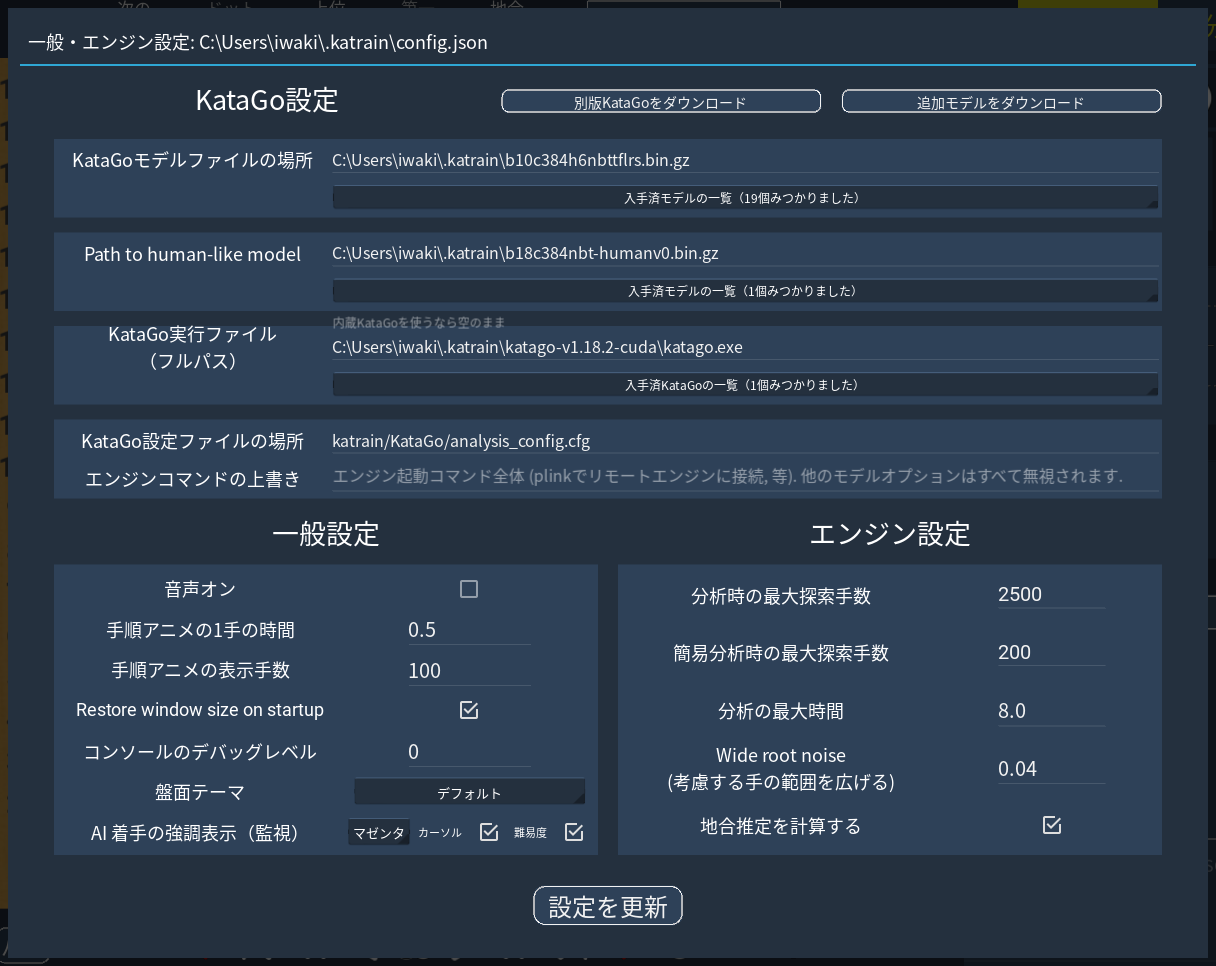
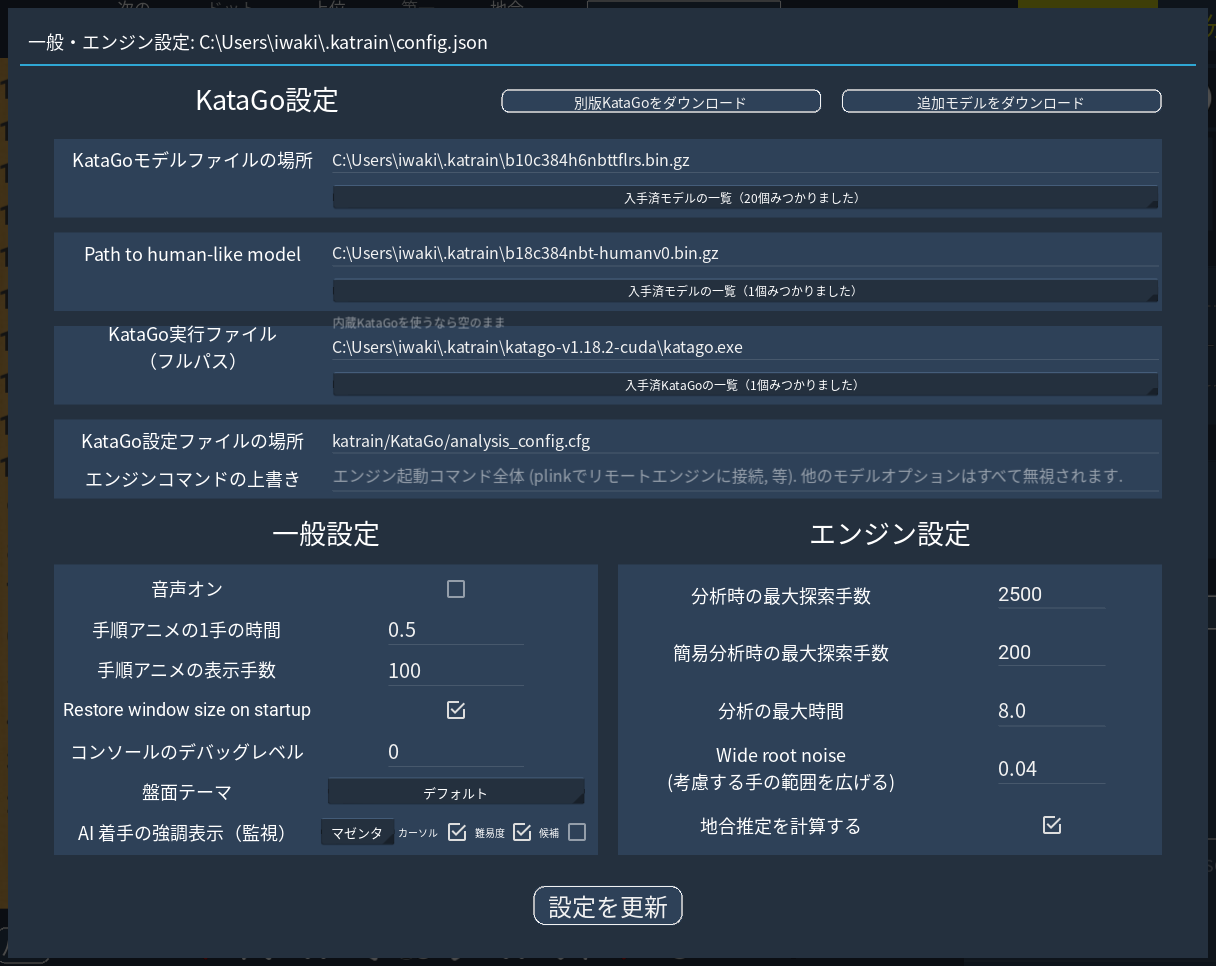
docs(board-watch): 複数候補の表示と差し替えの設計・rules・マニュアルを記録する
- spec 追記15: 字の意味と判定、見え方を決めた経緯（四隅バッジは隣の交点と重なる・輪の色の字は
  輪の線に沈む）、差し替えの判定と既知の限界（実機は未確認）
- rules/board-watch.md: ファイル・設定キー・やってはいけないこと
- マニュアル: 「候補」チェックの説明と設定キー 3 つ、設定画面の画像を撮り直し
- 実寸の描画の見本 calibration-data/board-watch/candidate-marks-20261119.png

diff --git a/.claude/rules/board-watch.md b/.claude/rules/board-watch.md
@@ -5,12 +5,14 @@ paths:
   - "katrain/core/screen_marker.py"
   - "katrain/core/screen_cursor.py"
   - "katrain/core/move_difficulty.py"
+  - "katrain/core/move_candidates.py"
   - "katrain/core/board_spectate.py"
   - "katrain/core/screen_ocr.py"
   - "katrain/core/screen_ocr.ps1"
   - "tests/test_board_watch*.py"
   - "tests/test_screen_*.py"
   - "tests/test_move_difficulty.py"
+  - "tests/test_move_candidates.py"
   - "tests/test_ring_difficulty_prefetch.py"
   - "tests/test_board_spectate.py"
   - "tests/test_screen_ocr.py"
@@ -41,3 +43,23 @@ paths:
 - **新規対局ポップアップの前に対局者を戻す** — ポップアップは `_do_new_game` のあとに対局者ウィジェットを読み直すので、観戦前の対局者は `spectate_end_for_new_game` で先に戻しておく
 
 - **実機確認（2026-11-15・野狐の観戦）で直した点**: (1) 帯のボタンは高さとフォントを固定する（`SizedButton` は高さ未指定だと文字が巨大化して上のパネルへはみ出す）。帯は 2 段（文言／ボタン）で、先頭の「盤を拡大」が右パネルを畳む（`spectate_panel_hidden`・畳んでいる間は勝率と目差 `spectate_eval` を帯に出す）。(2) 日本ルールの部屋のコミ表記は「黒6.5目コミ出し」＝`parse_fox_panel` が「N目…出し」を数字で拾う。(3) 黒白 1 手ずつの 2 手は順序が決まるので`estimated` にしない（10 秒の早碁では確定待ちの間に 2 手進むのが普通）。(4) 対局情報の数字欄は`numeric_input_filter` で全角を半角に直す（日本語入力のままだと欄のフォントに無く豆腐になる）。画面の確認は別プロファイルで起動して `Window.screenshot` を撮る（窓の幅は 4 の倍数にする＝そうでないと画像が斜めに歪む）
+
+## 複数候補の表示と差し替え（spec 追記15・2026-11-19）
+
+設定画面の輪の行の「候補」チェック（`board_watch.highlight_candidates`・既定 OFF）で、決定手の太い輪に加えて細い輪＋輪の内側の字を出す。字は 最＝KataGo の最善手／感＝第一感（humanSL 9段の確率最大・悪手でもそのまま）／人＝悪手でない中で 9段の確率最大（第一感の損失が 2 目を超える・KataGo が読んでいない、のときだけ別の点に出る）／全＝最善手と第一感が同じ点／罠＝決定手が罠。同じ点の役割は 1 つの輪にまとめる（1 点に最大 2 字・輪は最大 4 つ）。表示した候補をアプリで打つと KaTrain の決定手をその手に差し替える（`board_watch.candidate_swap`・既定 ON）。候補以外の点は従来どおり警告。
+
+- ファイル: 判定 `katrain/core/move_candidates.py`（`candidate_roles` / `candidate_marks` / `ring_roles_of` / `swap_targets`）、描画 `screen_marker.py`（`mark_bgra`・`MarkerSet`）、差し替えの判定 `board_watch.swap_candidate`（verdict `swap`）と `BoardWatcher._on_swap_verdict` / `_resolve_swap`、本体 `__main__._board_watch_marks` / `_do_board_watch_swap`、盤の置き換え `Game.replace_last_move`
+- 設定キー: `highlight_candidates`（false）／`candidate_swap`（true）／`candidates_max_loss`（2.0＝「悪手でない」の上限・目。GUI なし）
+- 罠の記録は戦略の `ring_decision` → 着手ノードの `ai_decision`（`generate_ai_move`）。難解 / 難解＋と擬態が書く
+
+やってはいけないこと:
+
+- **罠かどうかを着手ノードに記憶しない** — ノードが現局面になるのは `game.play` の中、戦略の記録が付くのはその後。すき間で監視スレッドが計算すると「罠でない」が固定される。役割（最・感・人）だけ記憶し、罠は毎回読む
+- **難解の記録を `last_decision_info` に書かない** — 自己対局ハーネスと batch_eval は `last_decision_info` を持つ戦略を「判定情報あり」として集計する。輪の表示用は `ring_decision`
+- **第一感が悪手かどうかの判定に visits の下限を掛けない** — 通常解析は visits を数手に集中させるので、掛けると第一感が浅いだけの手番で「人」が別の点へ飛ぶ。下限を掛けるのは代わりの手を選ぶときだけ
+- **字を輪の色で塗らない** — 2 字は輪の線に掛かるので同じ色に沈む（赤い輪の上の「罠感」が読めなかった）。白＋黒い縁取り
+- **バッジを輪の外に出さない** — 囲碁は候補が隣の交点に並ぶ。将棋の marker.py の四隅バッジは隣どうしで重なる（モックで確認）
+- **差し替えの反映待ちを手数で見ない** — 差し替えは手数が変わらない。最終手が差し替え先になったかで見る（`_resolve_swap`）
+- **`swap_candidate` から「相手の 1 手つき」の分岐を外さない** — 早碁では確定前に相手の石が載り、外すと mismatch から戻れない
+- **差し替えで最終手のノードを分岐として残さない** — `children[0]` を辿る集計・保存が打たれなかった手へ進む。親から外す
+- **設定画面の輪の行にコントロールを足したら実際に起動して撮る** — `python tools/manual_screenshots.py --out <dir> --groups settings`。4 つ目でラベルが 2 行に折れた

diff --git a/CLAUDE.md b/CLAUDE.md
@@ -14,7 +14,7 @@ KaTrain v1.17.1.1 修正版。囲碁AI学習ツール。
 |---|---|---|
 | Human-like AI 戦略 | 悪手フィルタに加え、力戦派 / 攻城 / 狩猟 / 一致率低減 / 持碁 / 一致率追随（9路）/ 難解（9・13・19路）/ 難解＋（9・13・19路＝罠探索の拡張＋ΔE 床の改良版・`EnigmaPlusMixin`）/ 擬態（13路＝相手より低い一致率で勝つ・`Mimic13Strategy`）/ 一致率ひかえめ（旧名 韜晦・9・13・19路＝勝ち優先で自分の一致率を絶対目標まで下げる・序盤の窓を難解＋に任せる研究外しの層〈既定 OFF〉つき・`Veil9Strategy`） | `.claude/rules/ai-strategies.md`（設計と実測）<br>`.claude/rules/ai-parameters.md`（全パラメータ値）<br>`.claude/rules/ai-humanstyle.md`（フィルタ実装） |
 | 詰碁 | 画面キャプチャ→盤面認識→枠→着手選択 `ai:tsumego`→死活ソルバ（Rust df-pn）→回答帳 | `.claude/rules/tsumego.md`（設計と落とし穴）<br>`.claude/rules/tsumego-parameters.md`（パラメータ値） |
-| 盤面監視 | `board_watch.py`: BlueStacks 上の対局アプリ（黄盤＝囲碁クエスト系／明るい木目盤／野狐囲碁の PC 版）の着手を検出して人間側の手として片方向注入（トグル `ctrl+alt+d`）。AI の色の自動判定と連続対局、AI の着手をアプリ盤の真上に示す輪（`screen_marker.py`・難易度の色分けは `move_difficulty.py`）、交点へのカーソル移動（`screen_cursor.py`・クリックはしない）、5分進まなければ自動停止 ／ `tsumego_autoloop.py`: 詰碁の自動ループ（ADB でアプリを操作。トグルは `ctrl+alt+a`。spec `2026-08-23-tsumego-autoloop-design.md`） ／ 観戦モード: 黒白とも画面から来る対局（プロの対局など）を取り込んで分析するだけ（`board_spectate.py`・トグル `ctrl+alt+w`・spec `2026-11-15-spectate-watch-design.md`） | `.claude/rules/board-watch.md`（機能の全体像と設定キー）<br>`docs/superpowers/specs/2026-08-18-board-watch-design.md` |
+| 盤面監視 | `board_watch.py`: BlueStacks 上の対局アプリ（黄盤＝囲碁クエスト系／明るい木目盤／野狐囲碁の PC 版）の着手を検出して人間側の手として片方向注入（トグル `ctrl+alt+d`）。AI の色の自動判定と連続対局、AI の着手をアプリ盤の真上に示す輪（`screen_marker.py`・難易度の色分けは `move_difficulty.py`・最善手／第一感／人間らしい手／罠かどうかを輪の中の字で並べる複数候補の表示と、表示した候補をアプリで打ったときの決定手の差し替えは `move_candidates.py`）、交点へのカーソル移動（`screen_cursor.py`・クリックはしない）、5分進まなければ自動停止 ／ `tsumego_autoloop.py`: 詰碁の自動ループ（ADB でアプリを操作。トグルは `ctrl+alt+a`。spec `2026-08-23-tsumego-autoloop-design.md`） ／ 観戦モード: 黒白とも画面から来る対局（プロの対局など）を取り込んで分析するだけ（`board_spectate.py`・トグル `ctrl+alt+w`・spec `2026-11-15-spectate-watch-design.md`） | `.claude/rules/board-watch.md`（機能の全体像と設定キー）<br>`docs/superpowers/specs/2026-08-18-board-watch-design.md` |
 
 ## 盤面テーマ（盤・碁石のデザイン）
 
@@ -82,6 +82,7 @@ katrain/
     tsumego_answer_book.py -- 回答帳（正解手順の記録と、盤の8対称キーで一致する再出題の0秒再生）
     log_archive.py    -- 30日より古い詰碁ログを logs/archive/tsumego_YYYYMM.zip へ畳む
     move_difficulty.py -- 盤面監視の輪の難易度判定（明らか／普通／難解）
+    move_candidates.py -- 盤面監視の複数候補の表示（最＝最善手／感＝第一感／人＝人間らしい手／全／罠）と差し替え対象の判定
     ...               -- utils.py, lang.py, contribute_engine.py, tsumego_frame.py 等
   gui/                -- Kivy GUIウィジェット
     theme_manager.py  -- 盤面テーマ（盤・碁石）の一覧と切り替え（設定 general/board_theme）
@@ -221,7 +222,7 @@ python -m katrain_debug.selfplay report-sgf FILE.sgf
   | `katrain/core/constants.py` / `katrain/config.json` | `ai-settings-gui.md`（AI設定追加手順） |
   | `katrain/core/base_katrain.py` | `base-katrain-config.md`（JsonStore構造・起動時リセットパターン） |
   | `**/*.log` の分析 | `log-analysis.md`（Grepパターン、サブエージェントテンプレート） |
-  | 盤面監視（`board_watch.py` / `screen_marker.py` / `screen_cursor.py` / `move_difficulty.py`） | `board-watch.md`（機能の全体像と設定キー） |
+  | 盤面監視（`board_watch.py` / `screen_marker.py` / `screen_cursor.py` / `move_difficulty.py` / `move_candidates.py`） | `board-watch.md`（機能の全体像と設定キー） |
   | 自己対局ハーネス（`katrain_debug/selfplay*.py`・走らせるときも） | `selfplay.md`（全コマンド例・投了モデル・校正・再開の検査） |
   | 上流の移植・エンジン／モデルの差し替え・WinError 4551 | `environment.md`（上流同期・エンジン切替・Smart App Control） |
 - **i18n変更時は `.po` 編集後に `python tools/compile_mo.py` で `.mo` を再コンパイルすること**

diff --git a/docs/superpowers/specs/INDEX.md b/docs/superpowers/specs/INDEX.md
@@ -124,7 +124,7 @@
 
 | spec | |
 |---|---|
-| `2026-08-18-board-watch-design.md` | 🟢 **97KB**・`board_watch.py`。対局アプリの着手を検出して人間側の手として片方向注入（トグル `ctrl+alt+d`）。追記10 で連続対局（対局者アイコンから KaTrain の AI の色を自動判定・次の対局で監視を自動で張り直す）、追記11 で輪の色を局面の難しさ（明らか／普通／難解・humanSL 9段の先回り）で塗り分け |
+| `2026-08-18-board-watch-design.md` | 🟢 **97KB**・`board_watch.py`。対局アプリの着手を検出して人間側の手として片方向注入（トグル `ctrl+alt+d`）。追記10 で連続対局（対局者アイコンから KaTrain の AI の色を自動判定・次の対局で監視を自動で張り直す）、追記11 で輪の色を局面の難しさ（明らか／普通／難解・humanSL 9段の先回り）で塗り分け、追記15 で複数の候補（最善手・第一感・人間らしい手・罠かどうか）を輪＋字で表示し、表示した候補をアプリで打ったら決定手を差し替え |
 | `2026-08-22-tsumego-white-auto-apply-design.md` | 🟢 `board_watch.py` + `__main__.py`。詰碁モードでアプリの白の応手を自動反映（影グリッド方式・`reconcile` は無変更） |
 | `2026-08-23-tsumego-autoloop-design.md` | 🟢 実装済み。詰碁の自動ループ（ADB でアプリを操作し 出題→回答→正誤→誤答なら ヒント歩きで回答帳へ自動収穫→次の問題）。前提実測（ADB 疎通・役割推定誤り 3.7%・再出題率）と台帳 `tsumego_ledger.jsonl` |
 | `2026-11-15-spectate-watch-design.md` | 🟢 実装済み。観戦モード（トグル `ctrl+alt+w`）: 黒白とも画面から来る対局を取り込んで分析するだけ。`board_spectate.py` / `screen_ocr.py`。野狐は窓タイトルと文字認識でルール・コミ・アゲハマを読む。アゲハマのコミ換算は KataGo で検証済み（§5.4） |
